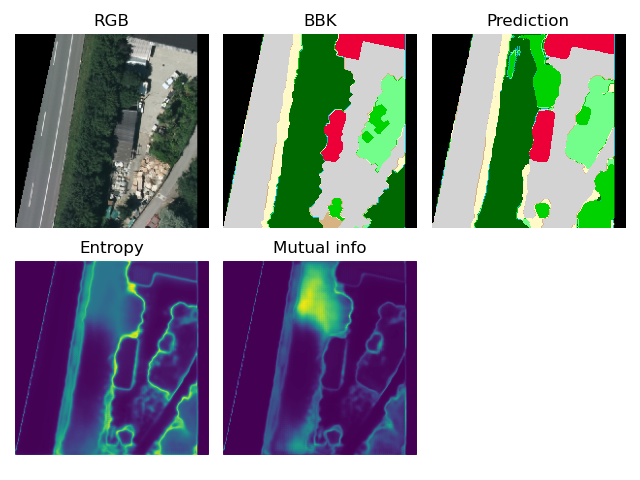
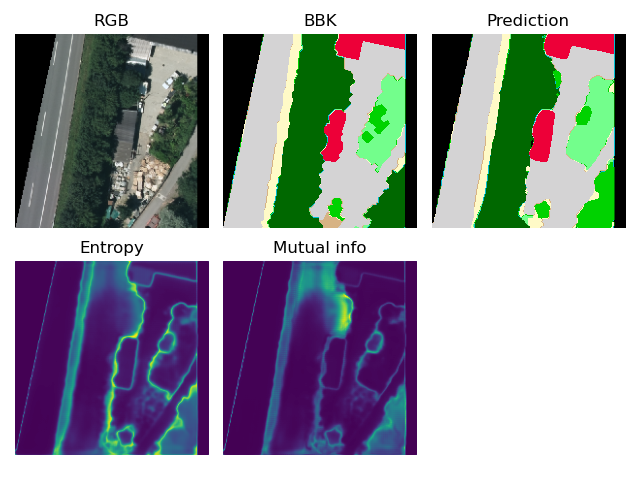
better results

diff --git a/example_data_bayesian.py b/example_data_bayesian.py
@@ -25,7 +25,7 @@ x = next(iter(dl))
 
 # load model
 net = BayesianUNet(n_channels=7, n_classes=9, bilinear=False).to(device=device)
-checkpoint_path = 'checkpoints/checkpoint_epoch80.pth'
+checkpoint_path = 'checkpoints_augmented/checkpoint_epoch60.pth'
 net.load_state_dict(torch.load(checkpoint_path, map_location=device))
 net.eval()
 enable_dropout(net)
